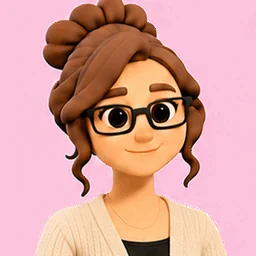
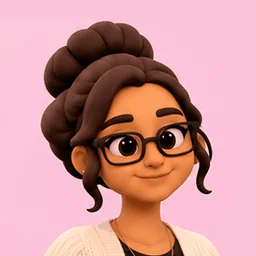
Kiru colour redo: out4 idle/wave/dance in kiru-v2 colours
Claude-Session: https://claude.ai/code/session_01M9MLSzTgGmRpDx4quWz9qx

diff --git a/design/gen/status.md b/design/gen/status.md
@@ -146,9 +146,9 @@ Generated in ChatGPT, checked frame by frame, converted to 256x256 animated WebP
 | kiru/out3/idle | done | 1 | colour redo Nov 19 (sprite sheet, kiru-v2 colours): cream kurti with pink embroidery; aligned to frame 0 (sheet drifted up to 6 px); slow blink frames 3-9 |
 | kiru/out3/wave | done | 1 | colour redo Nov 19 (sprite sheet, kiru-v2 colours): same hand waves on the left; small white motion lines frames 4-6; blink frames 9-10 |
 | kiru/out3/laugh | done | 1 | colour redo Nov 19 (sprite sheet, kiru-v2 colours): laugh with head tilt; frames aligned to frame 0 (sheet drifted up to 6 px); small white laugh lines in frames 4-6 |
-| kiru/out4/idle | done | 0 | Kiru v2 look; frames 5-8 rose up to 8 px during the blink; re-aligned and cropped |
-| kiru/out4/wave | done | 0 | Kiru v2 look |
-| kiru/out4/dance | done | 0 | Kiru v2 look; fists pop in at frame 1 and out at frame 15 |
+| kiru/out4/idle | done | 1 | colour redo Nov 19 (sprite sheet, kiru-v2 colours): cream cardigan over a black top; aligned to frame 0 (sheet drifted up to 5 px); blink frames 5-9 |
+| kiru/out4/wave | done | 1 | colour redo Nov 19 (sprite sheet, kiru-v2 colours): same hand waves on the left; aligned to frame 0 (sheet drifted up to 7 px sideways / 6 px down); white motion lines frames 4-6; two blinks |
+| kiru/out4/dance | done | 1 | colour redo Nov 19 (sprite sheet, kiru-v2 colours): shoulder bob with fists swinging side to side (bob up to 10 px, sheet as drawn); fists pop in at the bottom edges |
 | kiru/home2/idle | done | 1 | colour redo Nov 19 (sprite sheet, kiru-v2 colours): pale yellow nighty; frames 9-11 sat 5-8 px higher on the sheet, aligned to frame 0; blink frames 3-6 |
 | kiru/home2/wave | done | 1 | colour redo Nov 19 (sprite sheet, kiru-v2 colours): same hand waves on the left; small white motion lines by the hand in frames 4-6; blink frames 9-10 |
 | kiru/home2/tv | done | 1 | colour redo Nov 19 (sprite sheet, kiru-v2 colours): sofa behind; ONE remote, same hand (frames 0-6, then lowered below the frame); small white click lines in frame 4; chuckle frames 8-12 |
@@ -210,9 +210,9 @@ Reference measurements (tools: /tmp/tools/colour.py; median Lab over sampled fra
 | kiru/out3/idle | done | 4.1 | 2.1 | cream kurti with pink embroidery; aligned to frame 0 (sheet drifted up to 6 px); slow blink frames 3-9 |
 | kiru/out3/laugh | done | 3.4 | 2.8 | laugh with head tilt; frames aligned to frame 0 (sheet drifted up to 6 px); small white laugh lines in frames 4-6 |
 | kiru/out3/wave | done | 1.8 | 3.0 | same hand waves on the left; small white motion lines frames 4-6; blink frames 9-10 |
-| kiru/out4/dance | pending |  |  | old: skin dE 15.0 hair dE 19.3 |
-| kiru/out4/idle | pending |  |  | old: skin dE 15.4 hair dE 18.5 |
-| kiru/out4/wave | pending |  |  | old: skin dE 14.9 hair dE 18.8 |
+| kiru/out4/dance | done | 3.6 | 3.3 | shoulder bob with fists swinging side to side (bob up to 10 px, sheet as drawn); fists pop in at the bottom edges |
+| kiru/out4/idle | done | 2.1 | 3.6 | cream cardigan over a black top; aligned to frame 0 (sheet drifted up to 5 px); blink frames 5-9 |
+| kiru/out4/wave | done | 2.6 | 4.2 | same hand waves on the left; aligned to frame 0 (sheet drifted up to 7 px sideways / 6 px down); white motion lines frames 4-6; two blinks |
 | kiru/party/dance | pending |  |  | old: skin dE 13.7 hair dE 24.4 |
 | kiru/party/idle | pending |  |  | old: skin dE 14.9 hair dE 23.2 |
 | kiru/party/wave | pending |  |  | old: skin dE 15.1 hair dE 23.1 |
